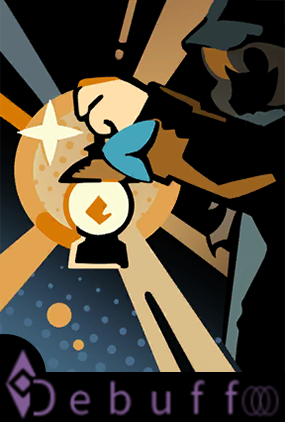
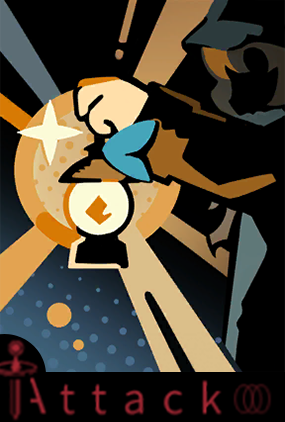
vault backup: 2024-03-21 21:17:30

Changed region(s): [[0.0, 0.8009, 0.6456, 1.0], [0.6737, 0.8934, 0.9825, 0.9858]]

diff --git a/100-UTTU人物合辑/神秘学家｜Arcanists/马库斯｜Marcus.md b/100-UTTU人物合辑/神秘学家｜Arcanists/马库斯｜Marcus.md
@@ -61,29 +61,29 @@ banner_header: "{{filename}}"
 > [!skill]- 精读课
 > ![精读课 一阶|100](assets/马库斯｜Marcus.assets/神秘术%20精读课1.png)
 > 
-> | 等级  | 类型  | 技能  | 文化  |
-> | :-: | :-: | :-: | :-: |
-> | ✦✧✧ |     |     |     |
-> | ✦✦✧ |     |     |     |
-> | ✦✦✦ |     |     |     |
+> | 等级 |                             类型                             |                       技能                        |                       文化                       |
+> | :--: | :----------------------------------------------------------: | :-----------------------------------------------: | :----------------------------------------------: |
+> | ✦✧✧  | ![攻击](000-箱的构成/templates/assets/UTTU人物合辑.assets/Attack.png)<b><font color="#933334">攻击</font></b> |            单体攻击，造成200%精神创伤             |                 必不可少的专注。                 |
+> | ✦✦✧  | ![攻击](000-箱的构成/templates/assets/UTTU人物合辑.assets/Attack.png)<b><font color="#933334">攻击</font></b> |            单体攻击，造成330%精神创伤             |          沉入必不可少的专注，圈出此段。          |
+> | ✦✦✦  | ![攻击](000-箱的构成/templates/assets/UTTU人物合辑.assets/Attack.png)<b><font color="#933334">攻击</font></b> | 单体攻击，造成450%精神创伤；本次攻击穿透率提升30% | 沉入必不可少的专注，圈出此段，下一段，再下一段…… |
 > 
 
 > [!skill]- 于灯火中
-> ![于灯火中 一阶|100](assets/马库斯｜Marcus.assets/神秘术%20于灯火中1.png)
+> ![于灯火中 二阶|100](assets/马库斯｜Marcus.assets/神秘术%20于灯火中2.png)
 > 
-> | 等级  | 类型  | 技能  | 文化  |
-> | :-: | :-: | :-: | :-: |
-> | ✦✧✧ |     |     |     |
-> | ✦✦✧ |     |     |     |
-> | ✦✦✦ |     |     |     |
+> | 等级 |                             类型                             |                             技能                             |                          文化                          |
+> | :--: | :----------------------------------------------------------: | :----------------------------------------------------------: | :----------------------------------------------------: |
+> | ✦✧✧  | ![攻击](000-箱的构成/templates/assets/UTTU人物合辑.assets/Attack.png)<b><font color="#933334">攻击</font></b> | 群体攻击，对2名敌人造成130%精神创伤；若目标处于[标注]状态下，则额外造成30%精神创伤 |                  以此寻觅无边的水面。                  |
+> | ✦✦✧  | ![减益](000-箱的构成/templates/assets/UTTU人物合辑.assets/Debuff.png)<b><font color="#7B5E91">减益</font></b> | 群体攻击，对2名敌人造成200%精神创伤；命中时使其获得1层[虚弱]；若目标处于[标注]状态下，则额外造成40%精神创伤 |            以此寻觅无边的水面、踪迹、阴影……            |
+> | ✦✦✦  | ![减益](000-箱的构成/templates/assets/UTTU人物合辑.assets/Debuff.png)<b><font color="#7B5E91">减益</font></b> | 群体攻击，对2名敌人造成300%精神创伤；命中时使其获得1层[虚弱]；若目标处于[标注]状态下，则额外造成75%精神创伤 | 以此寻觅无边的水面、踪迹、阴影……它们在光束中微微一亮。 |
 > 
 
 > [!skill]- 向更远处回望
 > ![向更远处回望|100](assets/马库斯｜Marcus.assets/至终的仪式%20向更远处回望.png)
 > 
-> | 技能 | 文化 |
-> | :--: | :--: |
-> |      |      |
+> |                             技能                             |            文化            |
+> | :----------------------------------------------------------: | :------------------------: |
+> | 群体攻击，对敌方全体造成250%精神创伤；若目标处于[标注]状态下，则额外造成200%精神创伤；自身获得1层[筹备·马库斯]；使自身灵光+2 | 永恒也是洞若观火的一瞬间。 |
 > 
 
 
